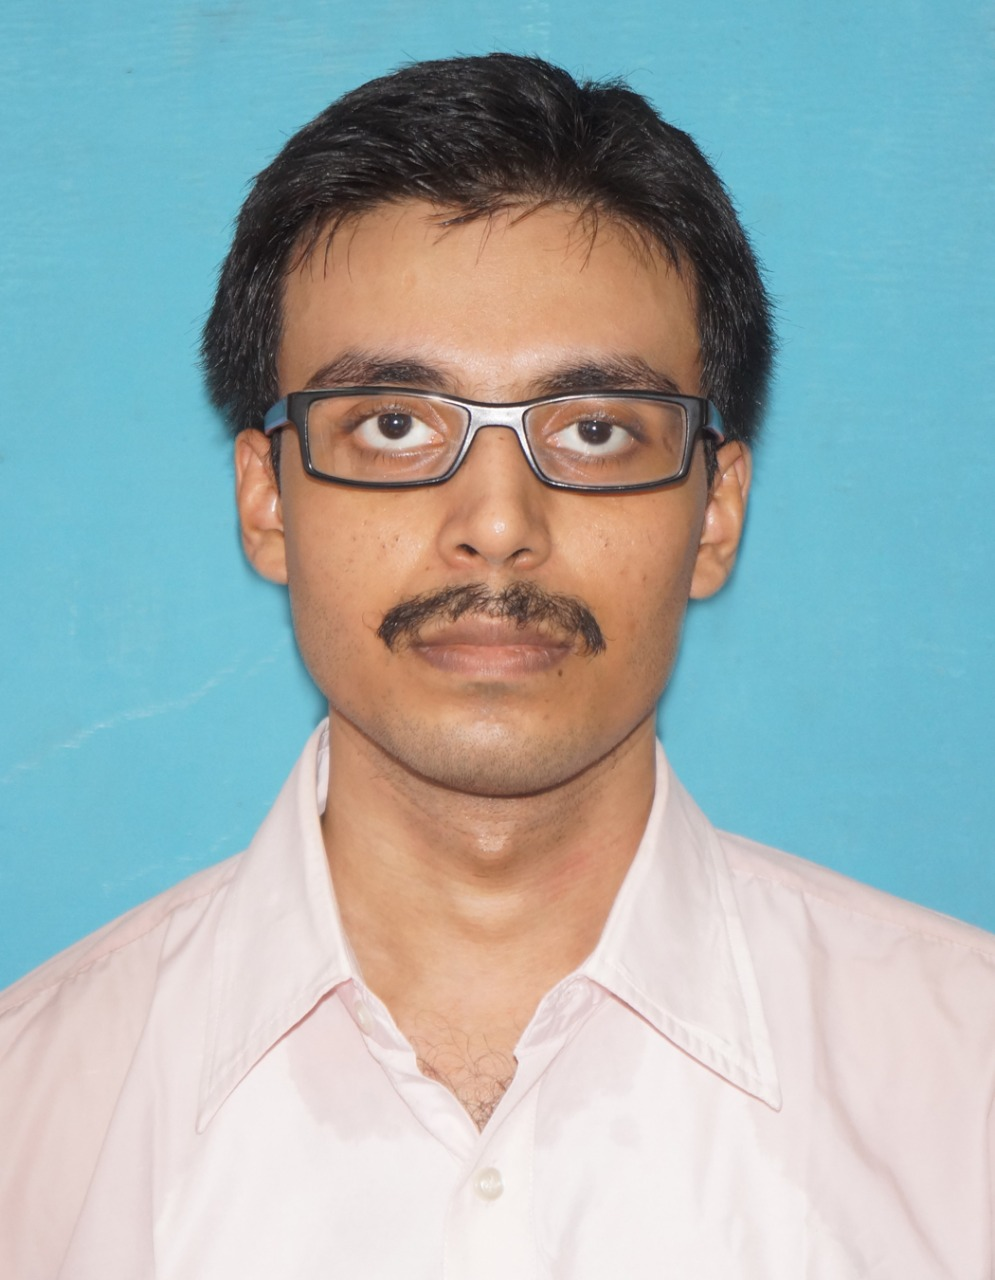
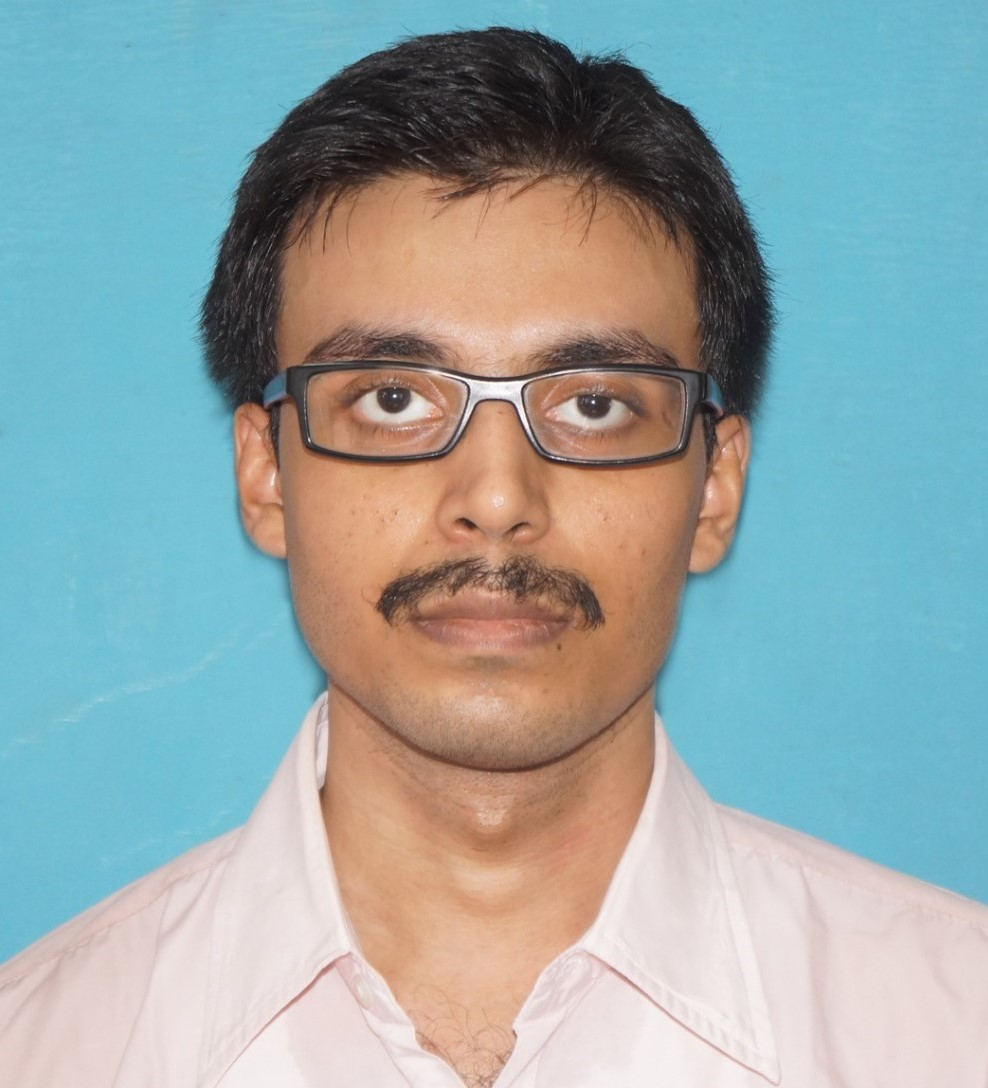
updated profile pics on home page

diff --git a/index.html b/index.html
@@ -200,7 +200,7 @@
                             <div class="frontside">
                                 <div class="card">
                                     <div class="card-body text-center">
-                                        <p><img class="img-fluid" src="https://drive.google.com/uc?id=1fAJrTaWMM74gQ_esoS8yldmTYT3k0Vaq" alt="team member"></p>
+                                        <p><img class="img-fluid" src="/dp/mahak.jpg" alt="team member"></p>
                                         <h4 class="card-title">Mahak Makharia</h4>
                                         <p class="card-text">DSC IEM Lead </p>
                                         <!--<a href="#" class="btn btn-primary btn-sm"><i class="fa fa-plus"></i></a>-->
@@ -246,7 +246,7 @@
                             <div class="frontside">
                                 <div class="card">
                                     <div class="card-body text-center">
-                                        <p><img class="img-fluid" src="https://drive.google.com/uc?id=1PVWag2lmbo91RXLEb73kxcW2zSMqolNa" alt="team member"></p>
+                                        <p><img class="img-fluid" src="/dp/vineeta.jpg" alt="team member"></p>
                                         <h4 class="card-title">Vineeta Jain</h4>
                                         <p class="card-text">WEB TEAM LEAD</p>
                                         <!--<a href="#" class="btn btn-primary btn-sm"><i class="fa fa-plus"></i></a>-->
@@ -292,7 +292,7 @@
                             <div class="frontside">
                                 <div class="card">
                                     <div class="card-body text-center">
-                                        <p><img class="img-fluid" src="https://drive.google.com/uc?id=1q0mbDAxkTcaoGl4YdQxvYPCaRskZwXcm" alt="team member"></p>
+                                        <p><img class="img-fluid" src="/dp/indra.jpg" alt="team member"></p>
                                         <h4 class="card-title">Indra Adhikary</h4>
                                         <p class="card-text">CODING TEAM LEAD</p>
                                         <!--<a href="#" class="btn btn-primary btn-sm"><i class="fa fa-plus"></i></a>-->
